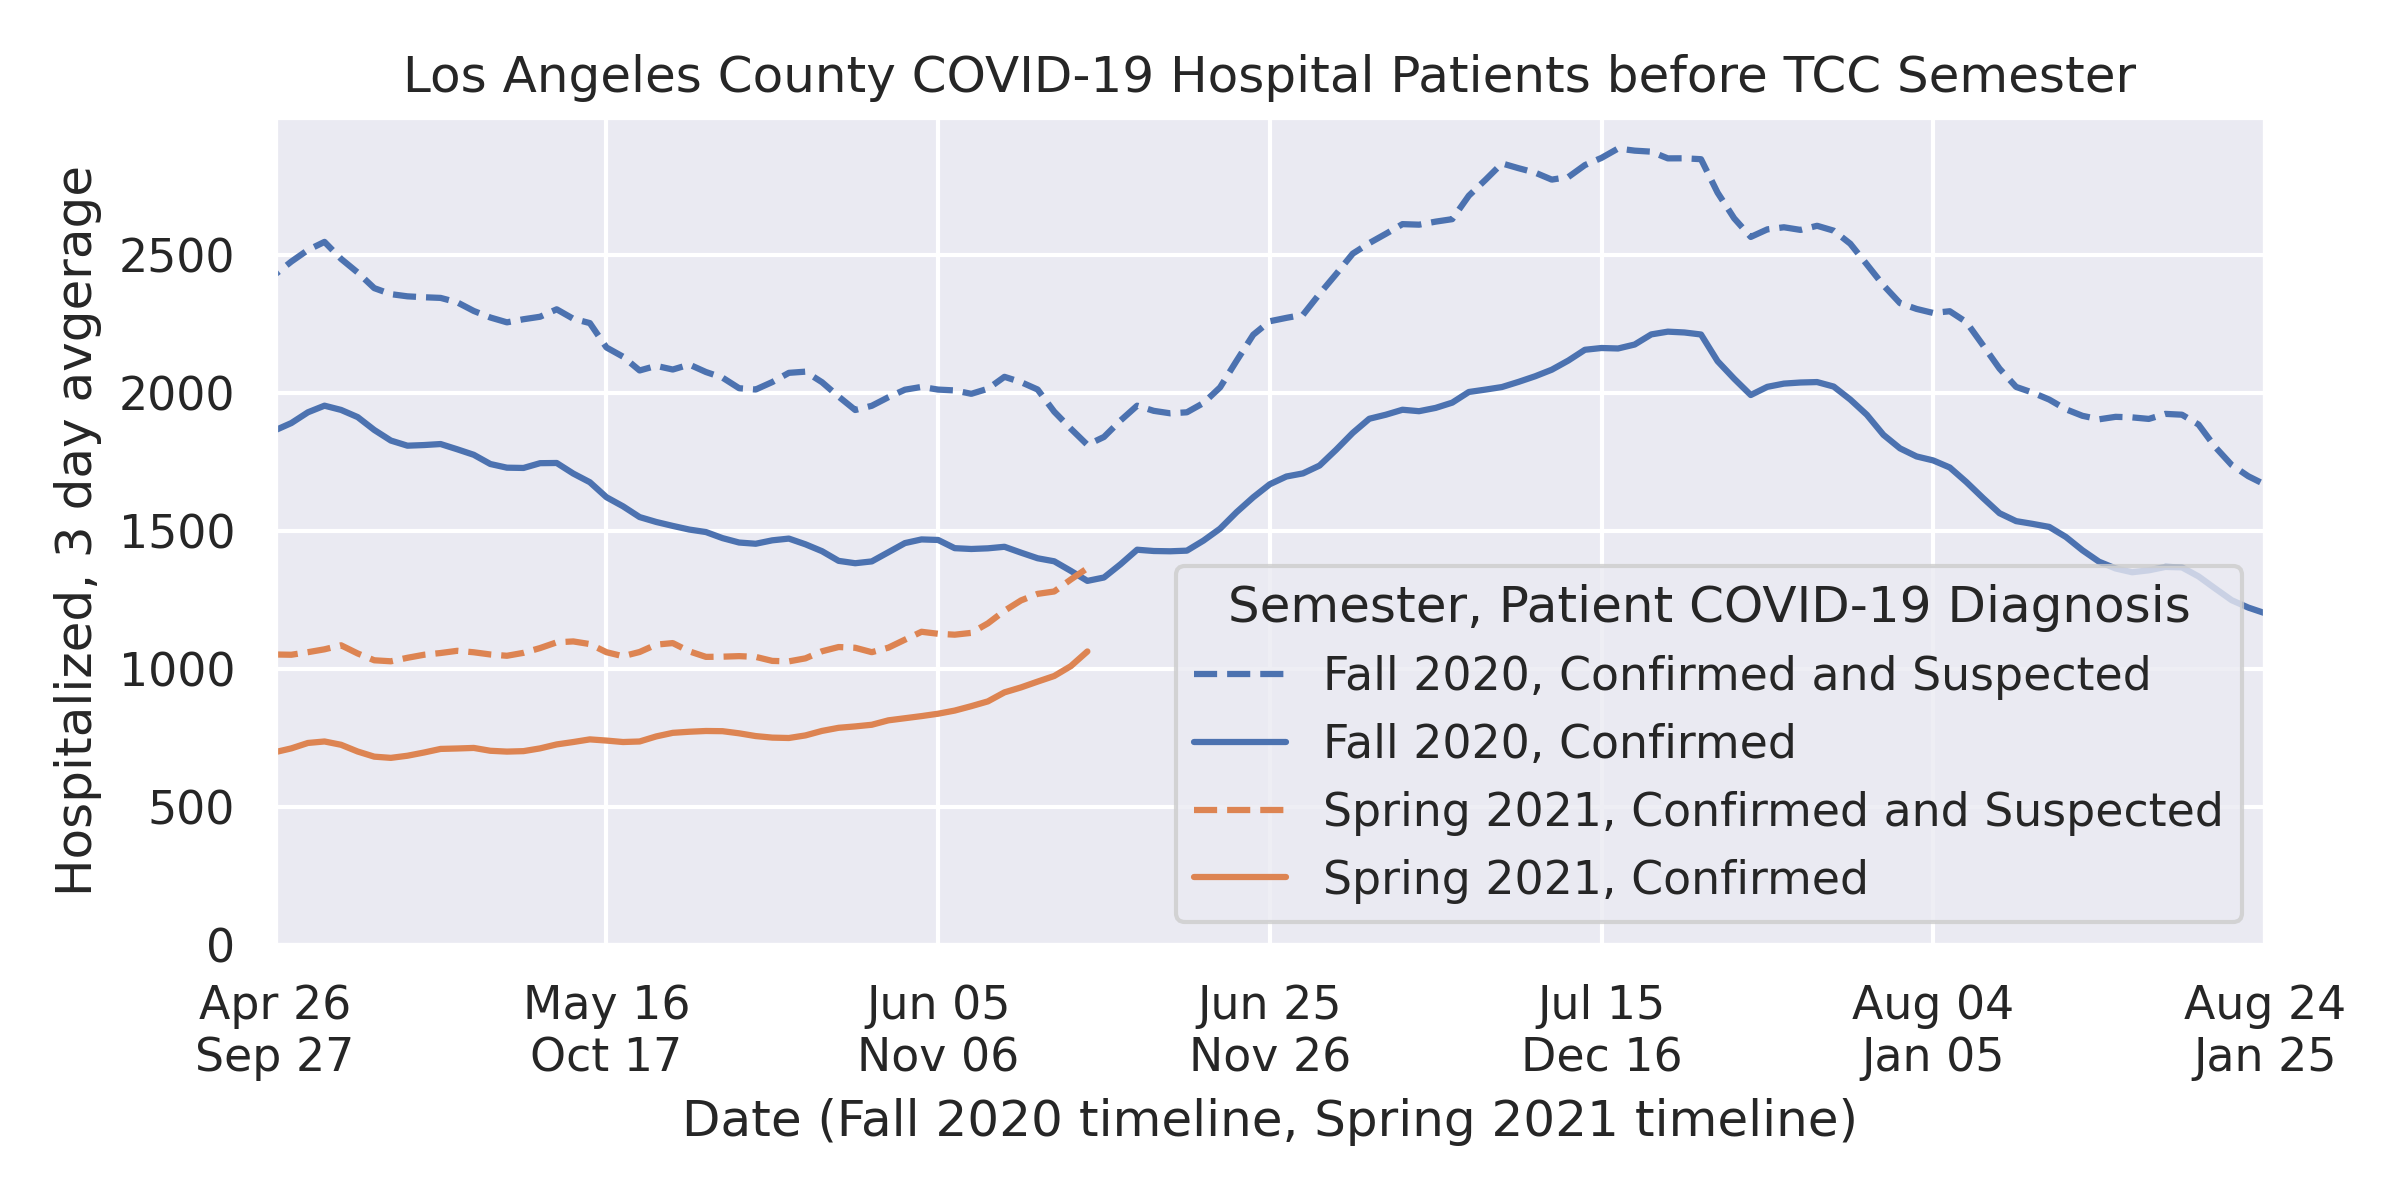
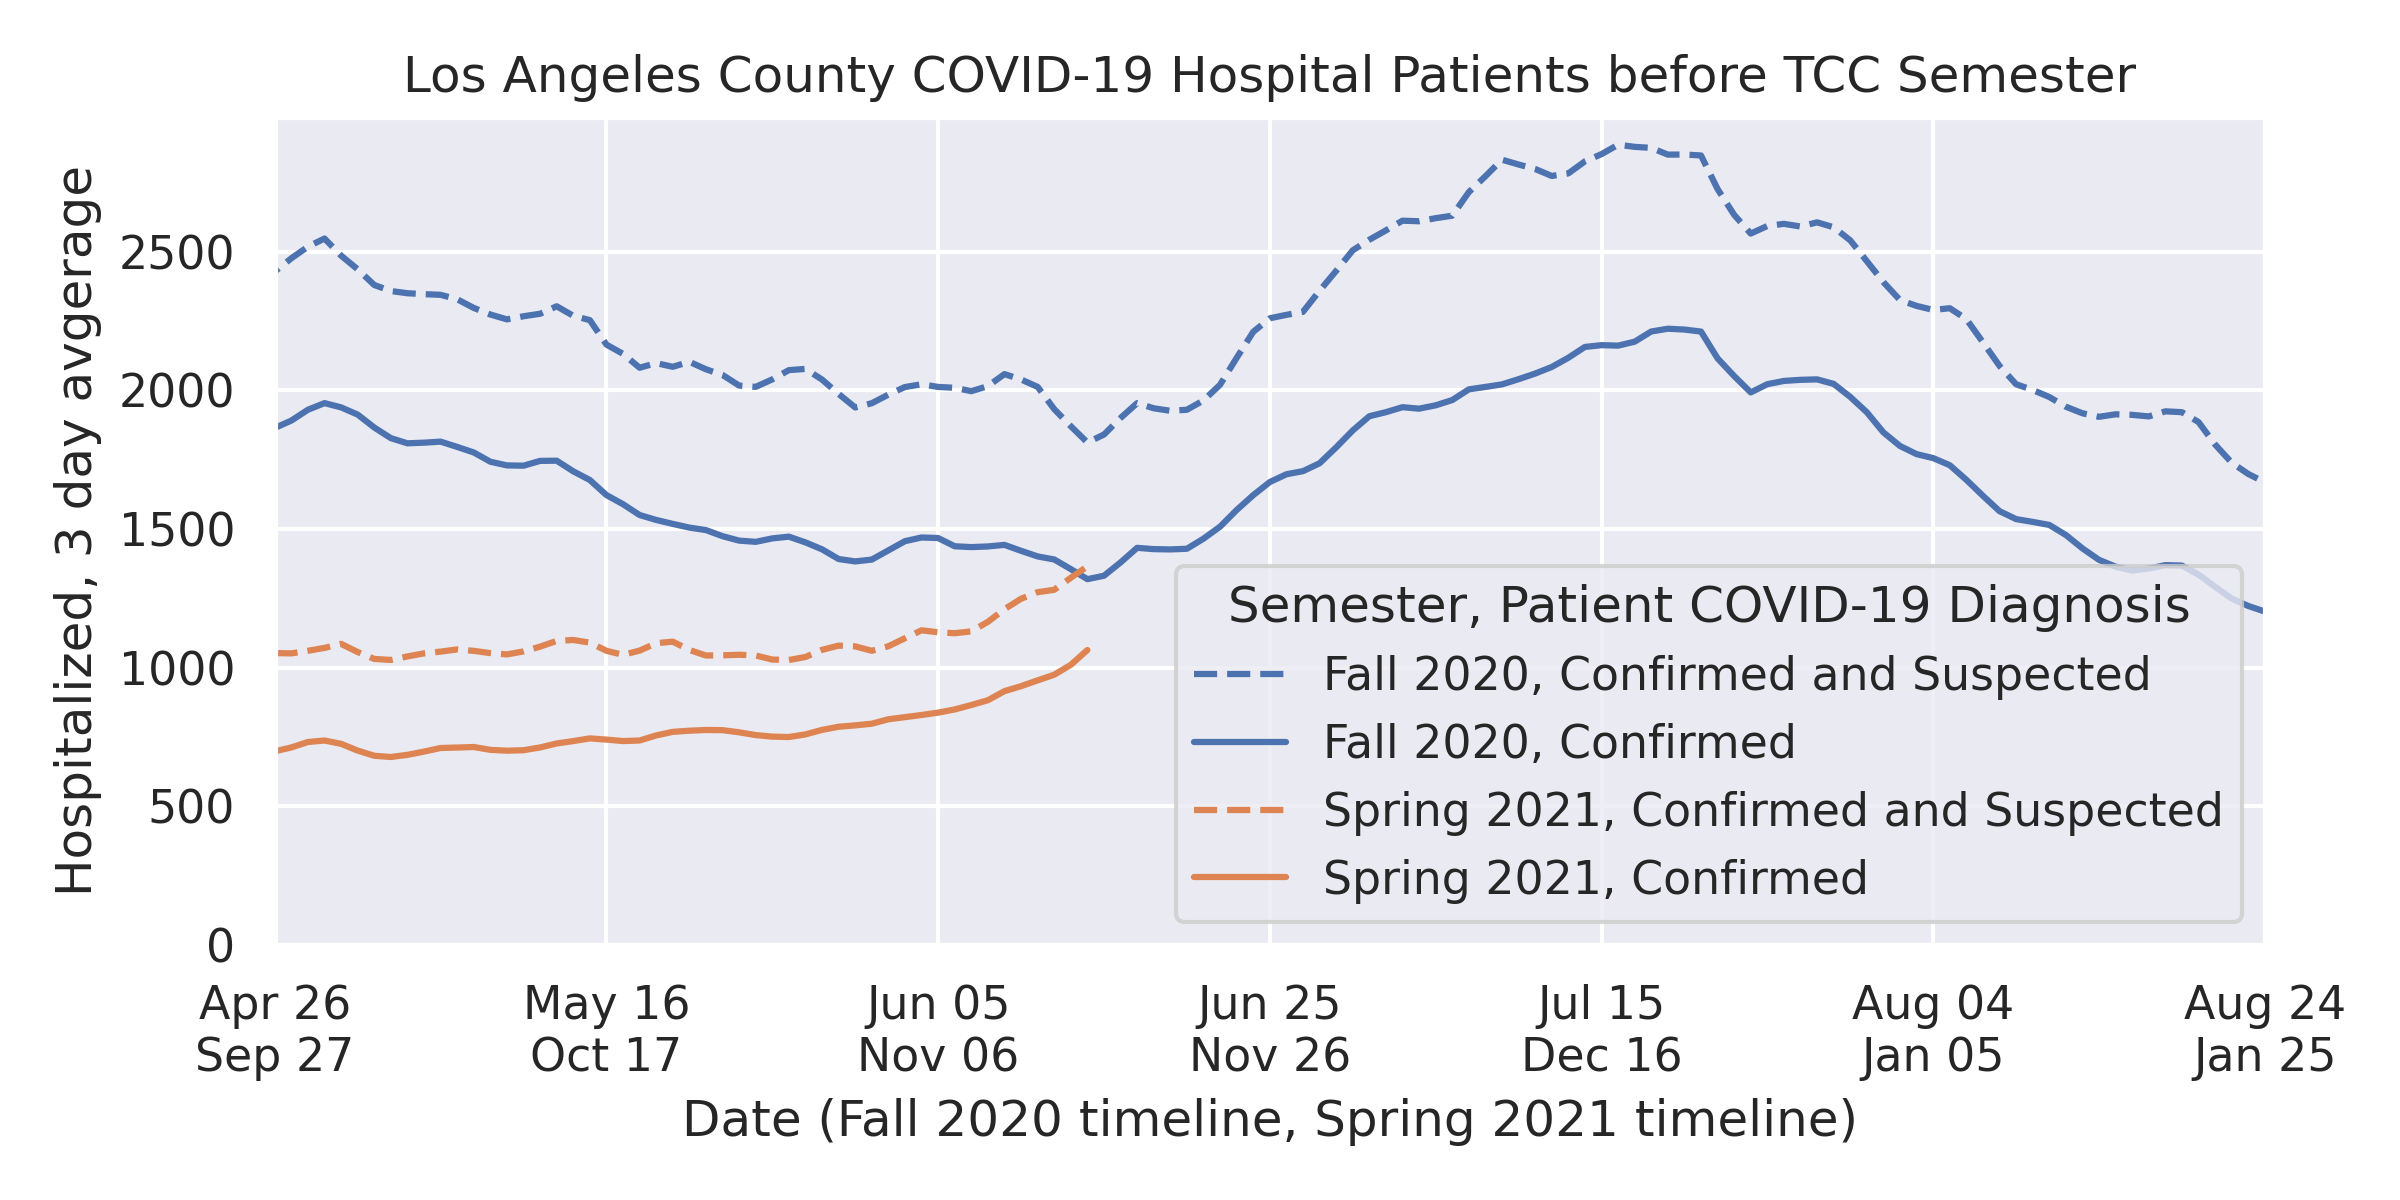
Revised website

diff --git a/docs/index.html b/docs/index.html
@@ -10,9 +10,11 @@
     <ul>
         <li>California Department of Public Health
             <ul>
+                <li><a href="https://covid19.ca.gov/state-dashboard/">State Dashboard</a></li>
                 <li><a href="https://covid19.ca.gov/safer-economy/">Blueprint for a Safer Economy</a></li>
                 <li><a href="https://files.covid19.ca.gov/pdf/guidance-higher-education--en.pdf">
-                    Institutions of Higher Education Reopening Guidance</a></li>
+                    Institutions of Higher Education Reopening Guidance</a>
+                </li>
             </ul>
         </li>
         <li>County of Los Angeles Department of Public Health
@@ -31,22 +33,40 @@
     <ul>
         <li><a href="https://cmcreturns.cmc.edu/">Claremont McKenna College</a></li>
         <li><a href="https://www.hmc.edu/coronavirus-information/">Harvey Mudd College</a></li>
-        <li><a href="https://www.pomona.edu/coronavirus">Pomona College</a></li>
         <li><a href="https://www.pitzer.edu/emergency/covid-19/">Pitzer College</a></li>
+        <li><a href="https://www.pomona.edu/coronavirus">Pomona College</a></li>
         <li><a href="https://www.scrippscollege.edu/scripps-strong/">Scripps College</a></li>
         <li><a href="https://tsl.news/tag/coronavirus/">The Student Life</a></li>
     </ul>
-    <h2>How Likely is Reopening?</h2>
-    <p>California Department of Public Health has set forward a plan for safely reopening based on new cases per capita and testing positivity rate.
-        There are four tiers that represent varying levels of community transmission.
-        More parts of the economy may open as community transmission drops.
-        The four tiers are: widespread, substantial, moderate, and minimal.
+    <h2>Comparing the Summer Surge to the Fall Surge</h2>
+    <p>
+        We recall the summer surge of COVID-19 cases in Los Angeles County prevented the colleges from reopening in the fall.
+        The question now is how is the current, fall surge of COVID-19 cases is impacting our ability to reopen for the spring semester.
     </p>
     <p>
-        Los Angeles County has consistently reached the test positivity metric.
-        The county tests more per capita than the state average, so the new cases per capita metric is relaxed.
+        One may think "Los Angeles County has been reporting 1,500 cases a day during the middle of October,
+        which is a better trend than the summer surge which saw over 3,000 cases a day."
+        However, this comparison does not take into account that the summer surge peaked roughly 30 days before the fall semester began.
+        The middle of October is roughly 100 days before the spring semester will begin.
     </p>
-    <img class="graphs" src="semester-start-v-new-cases.png" width="800em" max->
-    <img class="graphs" src="semester-start-v-hospitalized.png" width="800em">
+    <p>
+        That being said, we have to compare the daily new cases set in the middle of October to the daily new cases set in the middle of May.
+        These calendar dates are both 100 days out from the spring 2021 and fall 2020 semester respectively.
+    </p>
+    <p>
+        The graphs below set out to compare the summer surge derailing reopening plans for the fall 2020 semester against our current fall surge, possibly affecting reopening plans for the spring 2021 semester.
+        The horizontal, dashed lines show the daily new case targets Los Angeles County must reach in order to lessen restrictions.
+        These exact case rate targets may shift occasionally as the California Department of Public Health adjusts the target based on a county's testing capacity per capita against the state's median testing capacity.
+    </p>
+    <figure>
+        <a href="semester-start-v-new-cases.png"><img class="graphs" src="semester-start-v-new-cases.png"></a>
+        <figcaption><strong>Source:</strong> California Department of Public Health <a href="https://data.ca.gov/dataset/covid-19-cases/resource/926fd08f-cc91-4828-af38-bd45de97f8c3">COVID-19 Cases</a></figcaption>
+    </figure>
+    California no longer uses hospitalization data as part of reopening decisions, but the graph may be of interest.
+    <figure>
+        <a href="semester-start-v-hospitalized.png"><img class="graphs" src="semester-start-v-hospitalized.png"></a>
+        <figcaption><strong>Source:</strong> California Department of Public Health <a href="https://data.ca.gov/dataset/covid-19-hospital-data/resource/42d33765-20fd-44b8-a978-b083b7542225">COVID-19 Hospital Data</a></figcaption>
+    </figure>
+    
 </body>
 </html>

diff --git a/docs/styles.css b/docs/styles.css
@@ -1,4 +1,8 @@
+body {
+    max-width: 50em;
+    font-family: sans-serif;
+    margin: 0px auto;
+}
 .graphs {
-    max-width: 80em;
     width: 100%;
 }

diff --git a/semester_start_countdown.py b/semester_start_countdown.py
@@ -84,7 +84,7 @@ fetch_ca_dataset(CA_CASES_URL, CA_CASES_CSV)
 fetch_ca_dataset(CA_HOSPITALIZED_URL, CA_HOSPITALIZED_CSV)
 
 
-# In[3]:
+# In[2]:
 
 
 df_cases = pd.read_csv(CA_CASES_CSV)
@@ -167,13 +167,13 @@ ax.set_xlabel(X_AXIS_LABEL)
 ax.set_ylabel(NEW_CASES_AVG)
 ax.set_xlim(120, 0)
 ax.xaxis.set_major_formatter(FuncFormatter(date_axis_text))
-ax.set_ylim(moderate_rate-vertical_pad-180, 3100)
+ax.set_ylim(moderate_rate-vertical_pad-180, df_la[NEW_CASES_AVG].max()+100)
 
 fig.savefig('docs/semester-start-v-new-cases.png')
 fig.show()
 
 
-# In[5]:
+# In[6]:
 
 
 fig, ax = plt.subplots(figsize=(8, 4), dpi=300)
@@ -192,7 +192,13 @@ ax.xaxis.set_major_formatter(FuncFormatter(date_axis_text))
 ax.set_ylabel('Hospitalized, 3 day avgerage')
 ax.set_title('Los Angeles County COVID-19 Hospital Patients before TCC Semester')
 ax.set_xlim(120, 0)
-ax.set_ylim(0)
+ax.set_ylim(0, df_la[HOSPITALIZED_ALL_AVG].max()+100)
 fig.savefig('docs/semester-start-v-hospitalized.png')
 fig.show()
+
+
+# In[ ]:
+
+
+
 
